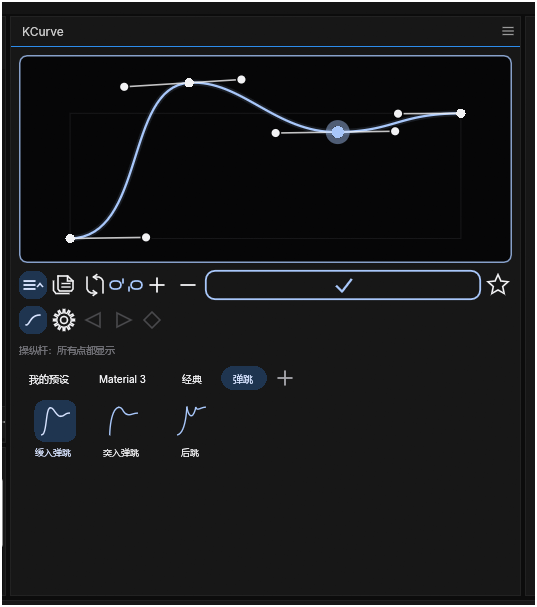
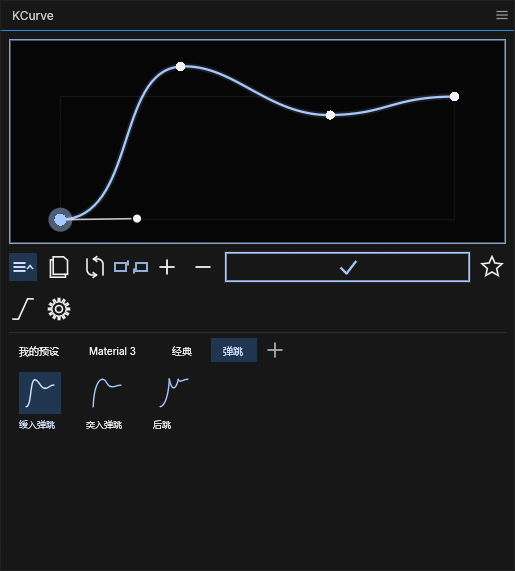
docs: 更新 README 首页四张截图（2.0.6）
- effectcraft.png 使用 KCurve Promo 工程作背景，展示加宽后的面板

- multi/overshoot/single 更新为 2.0.6 直角模式与弹跳/弹性 Overshoot/经典预设

- 图片引用缓存参数升到 ?v=2.0.6

diff --git a/README.md b/README.md
@@ -3,7 +3,7 @@
 **EffectCraft 的 Flow / Kease 风格缓动曲线编辑器。**  
 单文件 ScriptUI 脚本，停靠在 EffectCraft 面板中，支持单段曲线、多点关键帧、超出边界和预设库。
 
-![KCurve 在 EffectCraft 中](docs/screenshots/effectcraft.png?v=2.0.0)
+![KCurve 在 EffectCraft 中](docs/screenshots/effectcraft.png?v=2.0.6)
 
 当前版本：**2.0.6**  
 适用：**EffectCraft 0.19.0**（停靠自适应是 0.19 专属）；旧版本未测试，不保证可用。
@@ -28,7 +28,7 @@ KCurve 把关键帧的缓动从数字参数变成一条可以拖的曲线：
 
 ## 多点关键帧编辑
 
-![多点关键帧编辑](docs/screenshots/multi.png?v=2.0.0)
+![多点关键帧编辑](docs/screenshots/multi.png?v=2.0.6)
 
 多点模式每个控制点都会变成一个真正的时间线关键帧：
 
@@ -42,14 +42,13 @@ KCurve 把关键帧的缓动从数字参数变成一条可以拖的曲线：
    ScriptUI 不发送键盘事件，所以 Delete 键目前收不到（脚本已注册监听，宿主支持后即可用）；
 7. 点 **√** 后，KCurve 会按首尾选中关键帧的时间范围，把所有点写成时间线关键帧。
 
-截图里是「弹跳」组的三条弹跳预设和多点曲线：默认显示所有点的操纵杆，
-也可以在设置里改成只显示选中点，避免多点曲线变成一团乱线。
+截图里打开了「只显示选中点的操纵杆」，所以只画当前点的操纵杆；设置里可以改成所有点都显示，避免多点曲线变成一团乱线。
 
 ---
 
 ## 超出边界（Overshoot）
 
-![超出边界与实时写入](docs/screenshots/overshoot.png?v=2.0.0)
+![超出边界与实时写入](docs/screenshots/overshoot.png?v=2.0.6)
 
 工具栏里的**链条图标**控制是否允许曲线超出 0–1：
 
@@ -64,14 +63,14 @@ KCurve 把关键帧的缓动从数字参数变成一条可以拖的曲线：
 
 ## 单段曲线
 
-![单段曲线](docs/screenshots/single.png?v=2.0.0)
+![单段曲线](docs/screenshots/single.png?v=2.0.6)
 
 - 横轴是时间 0–1，纵轴是值 0–1；
 - 拖**锚点**改关键帧的值/时间位置；首尾点固定在 (0,0) / (1,1)，只能拖它们的操纵杆；
 - **操纵杆限制在所属段内**：入杆只在「上一个点 → 本点」之间，出杆只在「本点 → 下一个点」之间，
   不会跨过相邻关键帧（相当于 AE 的 influence 0–100%）；首尾点同样限制在 0–1。
 - 拖**操纵杆**改入/出切线；操纵杆可以直接拖到点上（比如 (0,0)），重叠时优先选中操纵杆；
-- 编辑器只画曲线本身：没有顶部数值文本、没有网格，只有一条**蓝色描边**和一点点圆角；
+- 编辑器只画曲线本身：没有顶部数值文本、没有网格，只有一条**蓝色描边**；圆角可在外观设置里一键去掉；
 - 面板不自己画背景，直接透出 EffectCraft 的界面底色（跟随主题和亮度）；
 - 下方可以切换 **入侧 / 出侧 / 双侧** 写入；
 - 选中关键帧后点 **√** 写入缓动；打开齿轮时拖动即实时写入。
